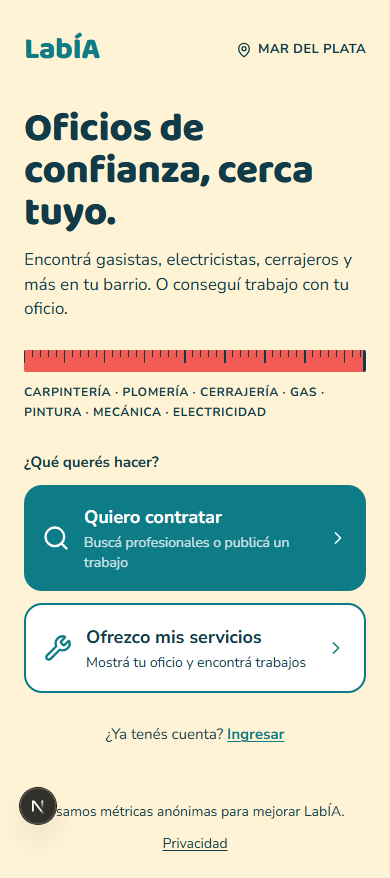
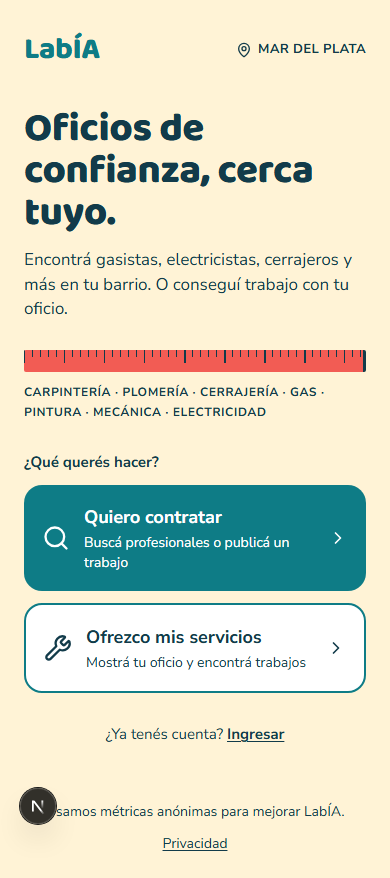
LAB-68: alias partido texto/fondo, tintes de error y contraste de texto
- globals.css: los alias azul, azul-presionado, naranja-accion, exito y acento usan
  --text-color-* = texto (enlaces y mensajes). Su color base (bg, border) sigue en accion.
  accion sobre fondo arena da 4,48:1 y no pasa AA para texto. Alias partido, lo borra LAB-69.
- Admin y bloques de error: bg-error/10 y /15 pasan a bg-superficie con border-error
  (en oscuro, error sobre tinte daba 4,22:1). Archivos: components/admin/DocumentoRevision.tsx,
  admin/reportes/FilaReporte.tsx, admin/reportes/FilaResenaBaja.tsx, app/suspendida/page.tsx,
  components/mis-trabajos/ModalConfirmacion.tsx, components/mis-trabajos/DetalleMiTrabajo.tsx,
  components/resenas/HojaResena.tsx.
- Texto blanco con opacity-80 sobre turquesa daba 3,77:1: se quita la opacidad en
  app/page.tsx (dos textos) y components/busqueda/TarjetaPublicar.tsx.
- Texto sobre-exito-suave (sol) sin fondo propio daba 1,2:1 en oscuro: pasa a text-texto en
  components/trabajos/ListaPostulaciones.tsx y components/perfil/FormularioPerfil.tsx.
- docs/prototipo-nuevo/README.md: accion sin enlaces; tokens sobre-encabezado, sobre-sol, velo y foco.
- tokens.test.ts: test del alias partido.

Changed region(s): [[0.2154, 0.615, 0.7385, 0.6458], [0.5846, 0.8303, 0.7385, 0.861], [0.1231, 0.7073, 0.1846, 0.7688]]

diff --git a/src/components/admin/reportes/FilaReporte.tsx b/src/components/admin/reportes/FilaReporte.tsx
@@ -39,7 +39,7 @@ export function FilaReporte({ fila }: { fila: FilaReporteAdmin }) {
             {TEXTO_ESTADO[fila.estado]}
           </span>
           {fila.conteoAcumulado > 1 ? (
-            <span className="rounded-full bg-error/10 px-2.5 py-1 text-xs font-bold text-error">
+            <span className="rounded-full border border-error bg-superficie px-2.5 py-1 text-xs font-bold text-error">
               {fila.conteoAcumulado} reportes acumulados
             </span>
           ) : null}
@@ -85,7 +85,7 @@ export function FilaReporte({ fila }: { fila: FilaReporteAdmin }) {
             <span>Usuario objetivo:</span>
             <span className="font-bold text-texto">{fila.usuarioAfectadoNombre}</span>
             {fila.usuarioAfectadoEstado === "suspendida" ? (
-              <span className="rounded-full bg-error/15 px-2 py-0.5 text-xs font-bold text-error">
+              <span className="rounded-full border border-error bg-superficie px-2 py-0.5 text-xs font-bold text-error">
                 Cuenta suspendida
               </span>
             ) : null}
@@ -108,7 +108,7 @@ export function FilaReporte({ fila }: { fila: FilaReporteAdmin }) {
               <button
                 type="button"
                 onClick={() => setModalSuspenderAbierto(true)}
-                className="inline-flex min-h-11 items-center justify-center rounded-boton bg-error/10 px-4 text-sm font-bold text-error hover:bg-error/20 active:opacity-80"
+                className="inline-flex min-h-11 items-center justify-center rounded-boton border border-error bg-superficie px-4 text-sm font-bold text-error hover:bg-fondo active:opacity-80"
               >
                 Suspender cuenta…
               </button>

diff --git a/src/app/page.tsx b/src/app/page.tsx
@@ -112,7 +112,7 @@ export default function Bienvenida() {
               <Search aria-hidden strokeWidth={2} className="size-7 shrink-0 lg:hidden" />
               <span className="flex flex-1 flex-col gap-0.5 lg:flex-none lg:gap-1.5">
                 <span className="text-lg font-bold lg:text-[22px]">Quiero contratar</span>
-                <span className="text-sm opacity-80 lg:text-[15px] lg:leading-[1.4]">
+                <span className="text-sm lg:text-[15px] lg:leading-[1.4]">
                   <span className="lg:hidden">Buscá profesionales o publicá un trabajo</span>
                   <span className="hidden lg:inline">
                     Buscá profesionales o publicá un trabajo y que ellos te escriban.
@@ -190,7 +190,7 @@ export default function Bienvenida() {
             <h2 id="seguridad" className="font-titulo text-[32px]">
               Tu seguridad primero
             </h2>
-            <p className="text-base leading-normal opacity-80">
+            <p className="text-base leading-normal">
               Cada profesional presenta DNI y certificado de antecedentes, y acepta nuestras normas
               de seguridad antes de publicar su perfil.
             </p>

diff --git a/src/components/admin/reportes/FilaResenaBaja.tsx b/src/components/admin/reportes/FilaResenaBaja.tsx
@@ -17,7 +17,7 @@ export function FilaResenaBaja({ fila }: { fila: FilaResenaBajaAdmin }) {
     <Tarjeta borde className="flex flex-col gap-3.5">
       <div className="flex flex-wrap items-center justify-between gap-2">
         <div className="flex items-center gap-2">
-          <span className="rounded-full bg-error/10 px-2.5 py-1 text-xs font-bold text-error">
+          <span className="rounded-full border border-error bg-superficie px-2.5 py-1 text-xs font-bold text-error">
             ★ {fila.puntaje} / 5
           </span>
           {fila.reportada ? (
@@ -58,7 +58,7 @@ export function FilaResenaBaja({ fila }: { fila: FilaResenaBajaAdmin }) {
           <button
             type="button"
             onClick={() => setModalSuspenderAbierto(true)}
-            className="inline-flex min-h-11 items-center justify-center rounded-boton bg-error/10 px-4 text-sm font-bold text-error hover:bg-error/20 active:opacity-80"
+            className="inline-flex min-h-11 items-center justify-center rounded-boton border border-error bg-superficie px-4 text-sm font-bold text-error hover:bg-fondo active:opacity-80"
           >
             Suspender cliente…
           </button>

diff --git a/src/app/tokens.test.ts b/src/app/tokens.test.ts
@@ -149,6 +149,27 @@ describe("contraste AA (≥ 4,5:1) de cada par texto/fondo, en claro y oscuro", 
   });
 });
 
+describe("alias partido texto/fondo (LAB-68, lo borra LAB-69)", () => {
+  // Los alias que caían en accion y se usan como texto (enlaces, mensajes) van a texto en
+  // --text-color-*. El fondo (--color-*) sigue en accion.
+  it.each(["azul", "azul-presionado", "naranja-accion", "exito", "acento"])(
+    "text-%s va en texto y el color base sigue en accion",
+    (alias) => {
+      expect(CSS_GLOBALS).toContain(`--text-color-${alias}: var(--color-texto);`);
+      for (const tema of ["claro", "oscuro"] as const) {
+        expect(hexDe(tema, alias)).toBe(hexDe(tema, "accion"));
+      }
+    },
+  );
+
+  it("el texto de los enlaces (texto) pasa AA sobre el fondo arena y la superficie", () => {
+    expect(contraste(hexDe("claro", "texto"), hexDe("claro", "fondo"))).toBeGreaterThanOrEqual(4.5);
+    expect(contraste(hexDe("claro", "texto"), hexDe("claro", "superficie"))).toBeGreaterThanOrEqual(
+      4.5,
+    );
+  });
+});
+
 describe("sin hex sueltos", () => {
   function archivos(dir: string): string[] {
     return readdirSync(dir).flatMap((nombre) => {

diff --git a/src/app/globals.css b/src/app/globals.css
@@ -148,6 +148,18 @@
   --color-cinta: var(--color-cinta);
   --color-cinta-marcas: var(--color-cinta-marcas);
 
+  /*
+   * Alias partido texto/fondo (LAB-68, lo borra LAB-69). Tailwind resuelve `text-*` primero en
+   * --text-color-* y después en --color-*. Los alias que apuntan a accion y se usan como TEXTO
+   * (enlaces, mensajes) van a texto: accion sobre fondo arena da 4,48:1 y no pasa AA. Los
+   * `bg-*` y `border-*` de esos mismos alias siguen en accion.
+   */
+  --text-color-azul: var(--color-texto);
+  --text-color-azul-presionado: var(--color-texto);
+  --text-color-naranja-accion: var(--color-texto);
+  --text-color-exito: var(--color-texto);
+  --text-color-acento: var(--color-texto);
+
   /* Las variables --fuente-* las define next/font en src/app/fuentes.ts. Etiquetas y datos usan
      Nunito Sans (ya no hay IBM Plex Mono): `font-mono` queda como alias. */
   --font-texto: var(--fuente-nunito), system-ui, sans-serif;

diff --git a/src/components/trabajos/ListaPostulaciones.tsx b/src/components/trabajos/ListaPostulaciones.tsx
@@ -83,7 +83,7 @@ export function ListaPostulaciones({ postulaciones }: ListaPostulacionesProps) {
                 {p.estado === "elegida" ? (
                   <div className="flex flex-col gap-0.5">
                     <Insignia variante="exito">¡Te eligieron!</Insignia>
-                    <span className="text-xs font-semibold text-sobre-exito-suave">
+                    <span className="text-xs font-semibold text-texto">
                       El cliente te va a escribir por WhatsApp.
                     </span>
                   </div>

diff --git a/src/components/perfil/FormularioPerfil.tsx b/src/components/perfil/FormularioPerfil.tsx
@@ -154,7 +154,7 @@ export function FormularioPerfil({ valores, barrios, hrefPerfil }: Props) {
         </p>
       ) : null}
       {estado.exito ? (
-        <p role="status" className="text-sm font-semibold text-sobre-exito-suave">
+        <p role="status" className="text-sm font-semibold text-texto">
           {estado.exito}{" "}
           <Link href={hrefPerfil} className="underline">
             Ver mi perfil

diff --git a/src/components/busqueda/TarjetaPublicar.tsx b/src/components/busqueda/TarjetaPublicar.tsx
@@ -36,7 +36,7 @@ export function TarjetaPublicar({
     >
       <span className="flex flex-col gap-1.5">
         <span className="text-lg font-bold">{titulo}</span>
-        <span className="text-sm leading-snug opacity-80 lg:text-[15px]">{descripcion}</span>
+        <span className="text-sm leading-snug lg:text-[15px]">{descripcion}</span>
       </span>
       <span
         className={cn(

diff --git a/src/app/suspendida/page.tsx b/src/app/suspendida/page.tsx
@@ -40,7 +40,7 @@ async function Contenido() {
             </p>
           </div>
 
-          <div className="rounded-[14px] border border-error/20 bg-error/10 p-4">
+          <div className="rounded-[14px] border border-error bg-superficie p-4">
             <p className="text-xs font-bold tracking-wider text-error uppercase">
               Motivo de la suspensión
             </p>

diff --git a/src/components/mis-trabajos/DetalleMiTrabajo.tsx b/src/components/mis-trabajos/DetalleMiTrabajo.tsx
@@ -155,7 +155,7 @@ export function DetalleMiTrabajo({
       {mensajeError ? (
         <div
           role="alert"
-          className="rounded-[14px] border border-error/20 bg-error/10 p-4 text-sm font-semibold text-error"
+          className="rounded-[14px] border border-error bg-superficie p-4 text-sm font-semibold text-error"
         >
           {mensajeError}
         </div>

diff --git a/src/components/mis-trabajos/ModalConfirmacion.tsx b/src/components/mis-trabajos/ModalConfirmacion.tsx
@@ -49,7 +49,7 @@ export function ModalConfirmacion({
       {error ? (
         <p
           role="alert"
-          className="rounded-[12px] border border-error/20 bg-error/10 p-3 text-sm font-semibold text-error"
+          className="rounded-[12px] border border-error bg-superficie p-3 text-sm font-semibold text-error"
         >
           {error}
         </p>

diff --git a/src/components/resenas/HojaResena.tsx b/src/components/resenas/HojaResena.tsx
@@ -234,7 +234,7 @@ function FormularioResena({
       {error ? (
         <div
           role="alert"
-          className="rounded-[14px] border border-error/20 bg-error/10 p-3 text-sm font-semibold text-error"
+          className="rounded-[14px] border border-error bg-superficie p-3 text-sm font-semibold text-error"
         >
           {error}
         </div>
